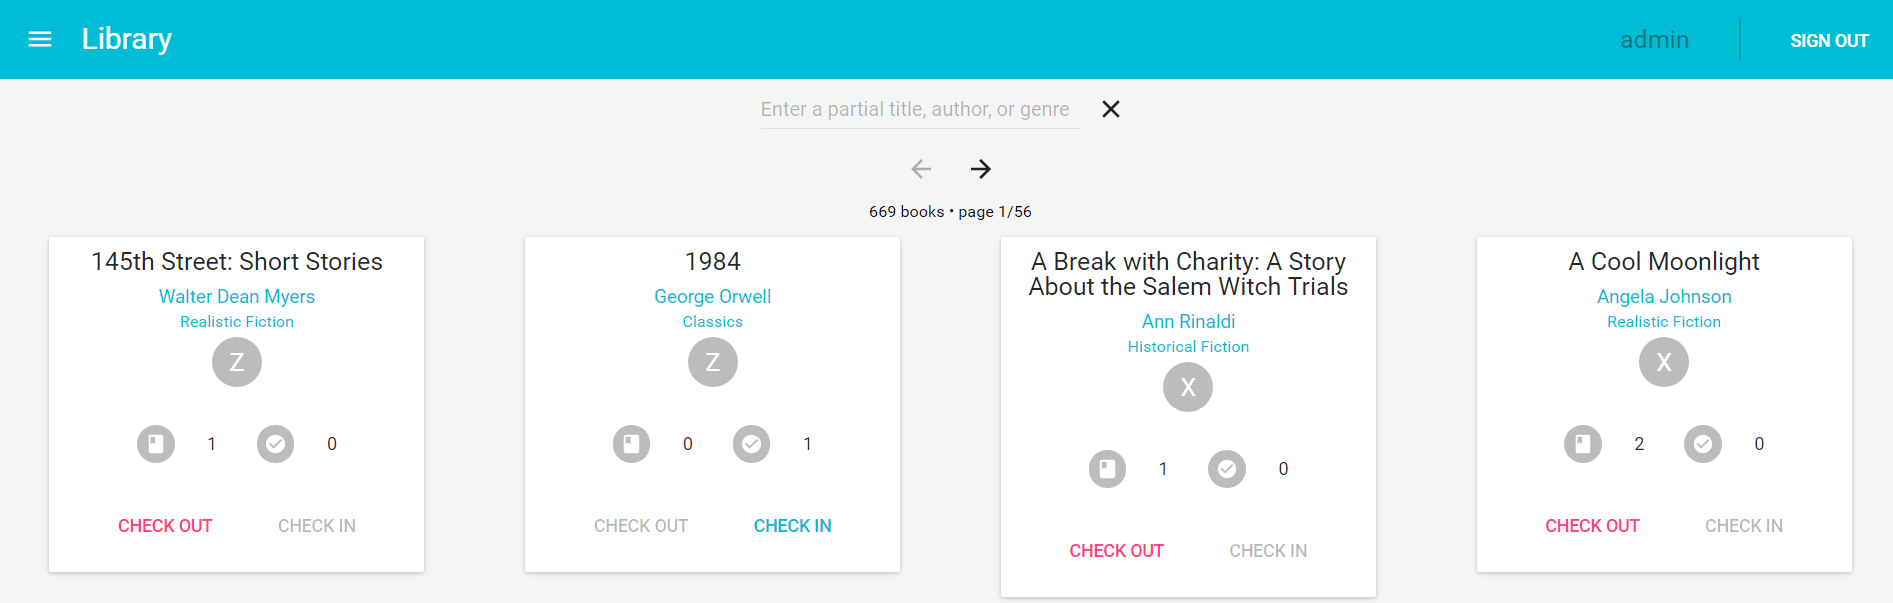
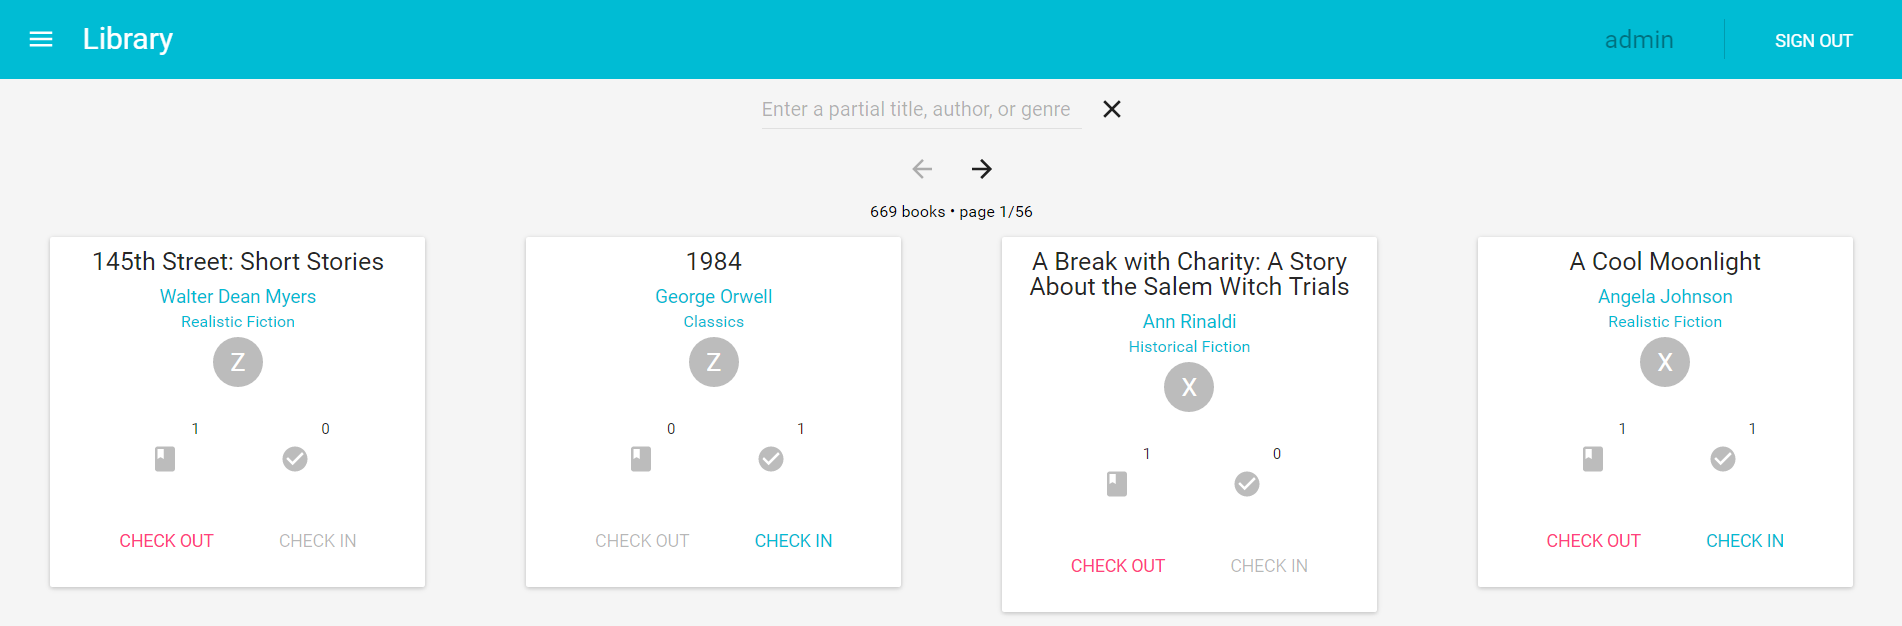
Positioning fixes; footer added

diff --git a/modules/components/Home/components/BookList/BookListItem/index.js b/modules/components/Home/components/BookList/BookListItem/index.js
@@ -2,7 +2,9 @@ import React from 'react';
 import Paper from 'material-ui/Paper';
 import Dialog from 'material-ui/Dialog';
 import FlatButton from 'material-ui/FlatButton';
+import IconButton from 'material-ui/IconButton';
 import AutoComplete from 'material-ui/AutoComplete';
+import Badge from 'material-ui/Badge';
 import Avatar from 'material-ui/Avatar';
 import List from 'material-ui/List/List';
 import ListItem from 'material-ui/List/ListItem';
@@ -140,15 +142,8 @@ class BookListItem extends React.Component {
             textAlign: 'center'
         };
 
-        const totalStyle = {
-            fontSize: 14
-        };
-
-        const avatarStyle = {
-            marginTop: 5,
-            marginBottom: 5,
-            marginLeft: 0,
-            marginRight: 0
+        const badgeIconStyle = {
+            cursor: "default"
         };
 
         const buttonStyle = {
@@ -194,32 +189,26 @@ class BookListItem extends React.Component {
                             </Avatar>
                         </ListItem>
                     </List>
-                    <List className='flex'>
-                        <ListItem
-                            disabled={true}
-                            style={totalStyle}
-                            leftAvatar={
-                                <Avatar
-                                    icon={<Book/>}
-                                    size={30}
-                                    style={avatarStyle} />
-                            }
+                    <div className='flex'>
+                        <Badge
+                            badgeContent={this.state.numberIn}
+                            badgeStyle={{top: 12, right: 12}}
+                            style={{marginRight: 10}}
                         >
-                            <div>{this.state.numberIn}</div>
-                        </ListItem>
-                        <ListItem
-                            disabled={true}
-                            style={totalStyle}
-                            leftAvatar={
-                                <Avatar
-                                    icon={<CheckCircle/>}
-                                    size={30}
-                                    style={avatarStyle} />
-                            }
+                            <IconButton tooltip="Available Books" style={badgeIconStyle}>
+                                <Book color="rgb(188, 188, 188)"/>
+                            </IconButton>
+                        </Badge>
+                        <Badge
+                            badgeContent={this.state.numberOut}
+                            badgeStyle={{top: 12, right: 12}}
+                            style={{marginLeft: 10}}
                         >
-                            <div>{this.state.numberOut}</div>
-                        </ListItem>
-                    </List>
+                            <IconButton tooltip="Checked Out Books" style={badgeIconStyle}>
+                                <CheckCircle color="rgb(188, 188, 188)"/>
+                            </IconButton>
+                        </Badge>
+                    </div>
                 </div>
                 <div className="flex">
                     <FlatButton

diff --git a/modules/components/Students/index.js b/modules/components/Students/index.js
@@ -42,7 +42,18 @@ class Students extends React.Component {
             overflowX: "auto",
             overflowY: "hidden",
             textOverflow: "initial"
-        }
+        };
+
+        const tabStyle = {
+            position: 'fixed',
+            zIndex: 9
+        };
+
+        const inkStyle = {
+            position: 'fixed',
+            zIndex: 9,
+            top: 112
+        };
 
         let studentsByClass = mapObject(this.state.students, function (key, value) {
             let listStudents = value.map(student => (
@@ -84,7 +95,13 @@ class Students extends React.Component {
                 <div className="students">
                     {this.props.signedIn == false ? 
                         <p className="paper-container">Sign in to view this page.</p> :
-                        <Tabs contentContainerClassName="tab-content">{studentsByClass}</Tabs>
+                        <Tabs
+                            className="tab-container"
+                            contentContainerClassName="tab-content"
+                            tabItemContainerStyle={tabStyle}
+                            inkBarStyle={inkStyle}>
+                            {studentsByClass}
+                        </Tabs>
                     }
                 </div>
             </MuiThemeProvider>

diff --git a/www/css/styles.css b/www/css/styles.css
@@ -11,10 +11,27 @@ body {
   height: 100%;
 }
 
+* {
+  box-sizing: border-box;
+  -moz-box-sizing: border-box;
+  -webkit-box-sizing: border-box;
+}
+
+#app {
+  width: 100%;
+  height: 100%;
+}
+
+#components {
+  width: 100%;
+  height: 100%;
+}
+
 .header {
   position: fixed;
   z-index: 10;
   width: 100%;
+  top: 0;
 }
 
 .home,
@@ -23,23 +40,35 @@ body {
 .admin {
   width: 100%;
   overflow: auto;
-  position: absolute;
-  top: 64px;
-  height: calc(100% - 64px);
-  height: -o-calc(100% - 64px); /* opera */
-  height: -webkit-calc(100% - 64px); /* google, safari */
-  height: -moz-calc(100% - 64px); /* firefox */
+  padding-top: 64px;
+  padding-bottom: 126px;
+  min-height: 100%;
+}
+
+.footer {
+  width: 100%;
+  padding-top: 50px;
+  padding-bottom: 35px;
+  padding-left: 2.5%;
+  padding-right: 10%;
+  margin-top: -126px;
+  position: relative;
+  clear: both;
+}
+
+.horiz-rule {
+  height: 1px;
+  width: 60%;
+  background-color: black;
+}
+
+.tab-container {
+  width: 100%;
 }
 
 .tab-content {
   width: 100%;
-  overflow: auto;
-  position: absolute;
-  top: 48px;
-  height: calc(100% - 48px);
-  height: -o-calc(100% - 48px); /* opera */
-  height: -webkit-calc(100% - 48px); /* google, safari */
-  height: -moz-calc(100% - 48px); /* firefox */
+  padding-top: 48px;
 }
 
 .flex {

diff --git a/modules/components/Admin/index.js b/modules/components/Admin/index.js
@@ -46,13 +46,28 @@ class Admin extends React.Component {
     }
     
     render() {
+
+        const tabStyle = {
+            position: 'fixed',
+            zIndex: 9
+        };
+
+        const inkStyle = {
+            position: 'fixed',
+            zIndex: 9,
+            top: 112
+        };
         
         return (
             <MuiThemeProvider>
                 <div className="admin">
                     {this.props.adminStatus == false ? 
                         <p className="paper-container">You do not have access to this page.</p> :
-                        <Tabs contentContainerClassName="tab-content">
+                        <Tabs
+                            className="tab-container"
+                            contentContainerClassName="tab-content"
+                            tabItemContainerStyle={tabStyle}
+                            inkBarStyle={inkStyle}>
                             <Tab label="Users">
                                 <div className="paper-container">
                                     <div>

diff --git a/www/index.html b/www/index.html
@@ -1,31 +1,18 @@
 <!DOCTYPE html>
 <html>
   <head>
-    <title>Library Check Out</title>
+    <title>Classroom Library</title>
     <meta charset="utf-8">
     <meta name="viewport" content="width=device-width, initial-scale=1.0, user-scalable=no, minimum-scale=1.0, maximum-scale=1.0">
+    <link href="https://fonts.googleapis.com/css?family=Roboto" rel="stylesheet">
     <link href="css/styles.css" rel="stylesheet" type="text/css">
   </head>
 
   <body>
 
-    <div id="main"></div>
+    <div id="app"></div>
 
     <script src="app.bundle.js"></script>
-
-    <script>
-      var WebFontConfig = {
-        google: { families: [ 'Roboto:400,300,500:latin' ] }
-      };
-      (function() {
-        var wf = document.createElement('script');
-        wf.src = 'https://ajax.googleapis.com/ajax/libs/webfont/1/webfont.js';
-        wf.type = 'text/javascript';
-        wf.async = 'true';
-        var s = document.getElementsByTagName('script')[0];
-        s.parentNode.insertBefore(wf, s);
-      })();
-    </script>
 
   </body>
 

diff --git a/modules/components/Footer/index.js b/modules/components/Footer/index.js
@@ -1,0 +1,24 @@
+import React from 'react';
+import MuiThemeProvider from 'material-ui/styles/MuiThemeProvider';
+
+class Footer extends React.Component {
+
+    render() {
+
+        return (
+            <MuiThemeProvider>
+                <div className="footer">
+                    <div className="horiz-rule"></div>
+                    <div>
+                        Built by <a href="https://github.com/hmltnbrn" target="_blank">Brian Hamilton</a> with <a href="https://nodejs.org/en/" target="_blank">Node.js</a> and <a href="http://facebook.github.io/react/" target="_blank">React</a>
+                    </div>
+                    <div>
+                        View source code on <a href="https://github.com/hmltnbrn/library-check-out" target="_blank">GitHub</a>
+                    </div>
+                </div>
+            </MuiThemeProvider>
+        );
+    }
+};
+
+export default Footer;

diff --git a/modules/app.js b/modules/app.js
@@ -1,6 +1,7 @@
 import React from 'react';
 
 import Header from './components/Header';
+import Footer from './components/Footer';
 
 import * as libraryService from './services/library-service';
 
@@ -38,9 +39,10 @@ class App extends React.Component {
     render() {
 
         return (
-            <div>
+            <div id="components">
                 <Header signedIn={this.state.signedIn} adminStatus={this.state.adminStatus} pageTitle={this.state.pageTitle} username={this.state.username} session={this.session.bind(this)}/>
                 {this.props.children && React.cloneElement(this.props.children, {signedIn: this.state.signedIn, adminStatus: this.state.adminStatus, setPageTitle: this.setPageTitle.bind(this)})}
+                <Footer/>
             </div>
         );
     }

diff --git a/index.js b/index.js
@@ -9,5 +9,5 @@ injectTapEventPlugin();
 
 ReactDOM.render(
     <Router routes={routes} history={browserHistory}/>,
-    document.getElementById('main')
+    document.getElementById('app')
 );

diff --git a/README.md b/README.md
@@ -1,4 +1,4 @@
-# Library Check Out
+# Classroom Library
 
 ![Library Preview](/www/images/preview.png?raw=true "Library Preview")
 
